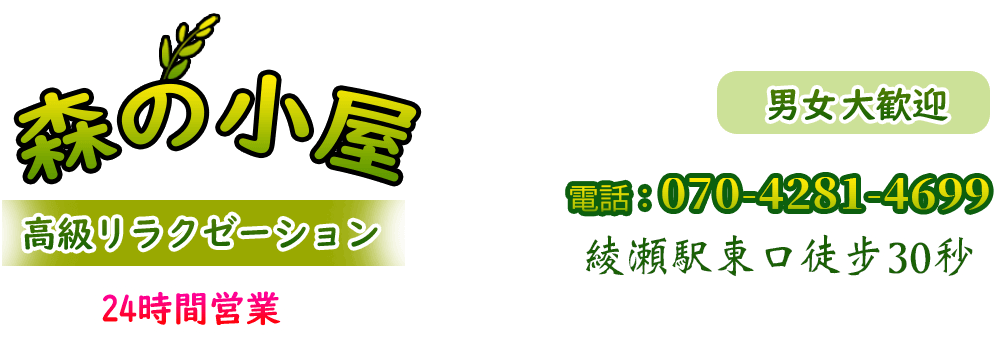
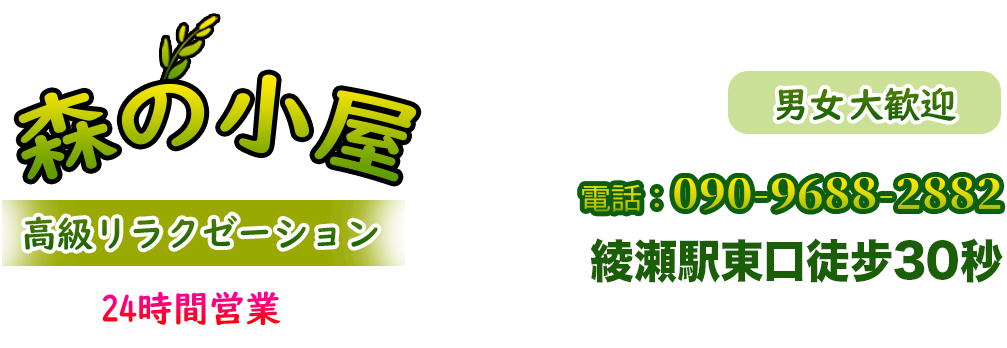
a'a
a'a

diff --git a/recruit.html b/recruit.html
@@ -1,2 +1,5 @@
-<!DOCTYPE html><html><head><meta charset="utf-8"/><title>森の小屋in綾瀬駅東口30秒リラクセーション　マッサージ　メンズエステ　リンパマッサージ【森の小屋】</title><meta name="keywords" content="森の小屋綾瀬駅東口30秒エステ,森の小屋アジア，アロママッサージ,精力回復,ストレス解消,アロマオイル,ボディケア,フットケア"/><meta name="description" content="綾瀬駅東口30秒本格アロママッサージ，森の小屋でございます，オイルマッサージで精力を増強します，仕事のストレスを解消いただきます。"/><meta name="viewport" content="width=device-width,user-scalable=yes"/><script src="https://cdn.staticfile.org/jquery/1.10.2/jquery.min.js"></script><link rel="stylesheet" href="swiper.min.css"/><link rel="stylesheet" href="css/nav_top.css"/></head><body class="body"><div class="top"><a class="tel" href="tel://07042814699"><div class="tels"></div></a></div><div class="navLage"><div class="navButton"><a href="index.html"><img src="img/images/nav_01.png"/></a></div><div class="navButton"><a href="system.html"><img src="img/images/nav_02.png"/></a></div><div class="navButton"><a href="girl.html"><img src="img/images/nav_03.png"/></a></div><div class="navButton"><a href="room.html"><img src="img/images/nav_07.png"/></a></div><div class="navButton"><a href="access.html"><img src="img/images/nav_05.png"/></a></div><div class="navButton"><a href="recruit.html"><img src="img/images/nav_06.png"/></a></div></div></body></html><link rel="stylesheet" href="css/4page.css"/><div class="Titles"><div class="recruittitle"></div></div><div class="recruit"><div><p>業&nbsp;種</p><p>リラクセーション</p></div><div style="height: 115px;"><p>給&nbsp;与</p><p style="height: 80px;">日払い OK!<br/>※高額保証制度有り<br/>ボーナス制度有り</p></div><div><p>時&nbsp;間&nbsp;</p><p>11:00～Last</p></div><div><p>資&nbsp;格&nbsp;</p><p>18歳～30歳位まで</p></div><div><p>勤務日&nbsp;</p><p>自&nbsp;由</p></div><div><p>応&nbsp;募&nbsp;</p><p>お電話の上、お気軽にご来店下さい。</p></div><div style="height: 136px;"><p>待&nbsp;遇&nbsp;</p><p style="height: 103px;">完全全額日払制、高額保証制度有り、個室待機制(TV・冷蔵庫・シャワー完備)、衛生管理万全、ノルマ・罰金一切なし、店内見学&amp;1日体験入店大歓迎</p></div><div><p>電&nbsp;話&nbsp;</p><p> <a href="tel://07042814699">tel：070ー4281ー4699</a></p></div></div><div class="telephonea"><a href="tel://07042814699"><div class="tele"></div></a></div><div class="endimg"><a href="http://www.a-side.com/" title="アジアンエステのエーサイド" target="_blank"><img src="http://www.a-side.com/banner/a-side_1m.gif" width="150" height="40" style="object-fit: contain;"  alt="アジアンエステのエーサイド"><br></a>
+<!DOCTYPE html><html><head><meta charset="utf-8"/><title>森の小屋in綾瀬駅東口30秒リラクセーション　マッサージ　メンズエステ　リンパマッサージ【森の小屋】</title><meta name="keywords" content="森の小屋綾瀬駅東口30秒エステ,森の小屋アジア，アロママッサージ,精力回復,ストレス解消,アロマオイル,ボディケア,フットケア"/><meta name="description" content="綾瀬駅東口30秒本格アロママッサージ，森の小屋でございます，オイルマッサージで精力を増強します，仕事のストレスを解消いただきます。"/><meta name="viewport" content="width=device-width,user-scalable=yes"/><script src="https://cdn.staticfile.org/jquery/1.10.2/jquery.min.js"></script><link rel="stylesheet" href="swiper.min.css"/><link rel="stylesheet" href="css/nav_top.css"/></head><body class="body"><div class="top">
+     <a class="tel" href="tel://09096882882"><div class="tels"></div></a></div><div class="navLage"><div class="navButton"><a href="index.html"><img src="img/images/nav_01.png"/></a></div><div class="navButton"><a href="system.html"><img src="img/images/nav_02.png"/></a></div><div class="navButton"><a href="girl.html"><img src="img/images/nav_03.png"/></a></div><div class="navButton"><a href="room.html"><img src="img/images/nav_07.png"/></a></div><div class="navButton"><a href="access.html"><img src="img/images/nav_05.png"/></a></div><div class="navButton"><a href="recruit.html"><img src="img/images/nav_06.png"/></a></div></div></body></html><link rel="stylesheet" href="css/4page.css"/><div class="Titles"><div class="recruittitle"></div></div><div class="recruit"><div><p>業&nbsp;種</p><p>リラクセーション</p></div><div style="height: 115px;"><p>給&nbsp;与</p><p style="height: 80px;">日払い OK!<br/>※高額保証制度有り<br/>ボーナス制度有り</p></div><div><p>時&nbsp;間&nbsp;</p><p>11:00～Last</p></div><div><p>資&nbsp;格&nbsp;</p><p>18歳～30歳位まで</p></div><div><p>勤務日&nbsp;</p><p>自&nbsp;由</p></div><div><p>応&nbsp;募&nbsp;</p><p>お電話の上、お気軽にご来店下さい。</p></div><div style="height: 136px;"><p>待&nbsp;遇&nbsp;</p><p style="height: 103px;">完全全額日払制、高額保証制度有り、個室待機制(TV・冷蔵庫・シャワー完備)、衛生管理万全、ノルマ・罰金一切なし、店内見学&amp;1日体験入店大歓迎</p></div><div><p>電&nbsp;話&nbsp;</p><p> 
+          <a href="tel://09096882882">tel：090-9688-2882</a></p></div></div><div class="telephonea">
+               <a href="tel://09096882882"><div class="tele"></div></a></div><div class="endimg"><a href="http://www.a-side.com/" title="アジアンエステのエーサイド" target="_blank"><img src="http://www.a-side.com/banner/a-side_1m.gif" width="150" height="40" style="object-fit: contain;"  alt="アジアンエステのエーサイド"><br></a>
 <a href="https://www.es-navi.com/" target="_blank"><img src="https://img.es-navi.com/banners/es-navi_150x40.gif" width="150" height="40" style="object-fit: contain;" alt="エステナビ～全国のエステ検索の決定版！"><br></a></div><h1>森の小屋in綾瀬駅東口30秒</h1><script src="swiper.min.js"></script><script src="js/index.js"></script><script>divHeight(2.0,"focus");</script>

diff --git a/access.html b/access.html
@@ -1,3 +1,3 @@
-<!DOCTYPE html><html><head><meta charset="utf-8"/><title>森の小屋in綾瀬駅東口30秒リラクセーション　マッサージ　メンズエステ　リンパマッサージ【森の小屋】</title><meta name="keywords" content="森の小屋綾瀬駅東口30秒エステ,森の小屋アジア，アロママッサージ,精力回復,ストレス解消,アロマオイル,ボディケア,フットケア"/><meta name="description" content="綾瀬駅東口30秒本格アロママッサージ，森の小屋でございます，オイルマッサージで精力を増強します，仕事のストレスを解消いただきます。"/><meta name="viewport" content="width=device-width,user-scalable=yes"/><script src="https://cdn.staticfile.org/jquery/1.10.2/jquery.min.js"></script><link rel="stylesheet" href="swiper.min.css"/><link rel="stylesheet" href="css/nav_top.css"/></head><body class="body"><div class="top"><a class="tel" href="tel://07042814699"><div class="tels"></div></a></div><div class="navLage"><div class="navButton"><a href="index.html"><img src="img/images/nav_01.png"/></a></div><div class="navButton"><a href="system.html"><img src="img/images/nav_02.png"/></a></div><div class="navButton"><a href="girl.html"><img src="img/images/nav_03.png"/></a></div><div class="navButton"><a href="room.html"><img src="img/images/nav_07.png"/></a></div><div class="navButton"><a href="access.html"><img src="img/images/nav_05.png"/></a></div><div class="navButton"><a href="recruit.html"><img src="img/images/nav_06.png"/></a></div></div></body></html><link rel="stylesheet" href="css/4page.css"/><div class="Titles"><div class="accesstitle"></div></div><div class="access"><iframe src="https://www.google.com/maps/embed?pb=!1m18!1m12!1m3!1d3237.5662031985717!2d139.82432901513218!3d35.761465633175085!2m3!1f0!2f0!3f0!3m2!1i1024!2i768!4f13.1!3m3!1m2!1s0x60188fb99d93e459%3A0x48030381bbdf1557!2z44CSMTIwLTAwMDUgVMWNa3nFjS10bywgQWRhY2hpIENpdHksIEF5YXNlLCAyLWNoxY1tZeKIkjI04oiSNSDmvqTnlLDjg5Pjg6s!5e0!3m2!1szh-CN!2sjp!4v1581159376765!5m2!1szh-CN!2sjp" width="600" height="750" frameborder="0" style="border:0;" allowfullscreen=""></iframe>
-     <div class="address">綾瀬駅東口30秒</div><div class="address">足立区綾瀬2-24-5 澤田ビル203</div><div class="address">綾瀬駅東⼝から右に曲がって、歩いて30秒くらい</div><div class="address">２階にある店の緑の看板を見えます</div><div class="teleph"><a href="tel://07042814699">tel：070-4281-4699</a></div></div><div class="telephonea"><a href="tel://07042814699"><div class="tele"></div></a></div><div class="endimg"><a href="http://www.a-side.com/" title="アジアンエステのエーサイド" target="_blank"><img src="http://www.a-side.com/banner/a-side_1m.gif" width="150" height="40" style="object-fit: contain;"  alt="アジアンエステのエーサイド"><br></a>
+<!DOCTYPE html><html><head><meta charset="utf-8"/><title>森の小屋in綾瀬駅東口30秒リラクセーション　マッサージ　メンズエステ　リンパマッサージ【森の小屋】</title><meta name="keywords" content="森の小屋綾瀬駅東口30秒エステ,森の小屋アジア，アロママッサージ,精力回復,ストレス解消,アロマオイル,ボディケア,フットケア"/><meta name="description" content="綾瀬駅東口30秒本格アロママッサージ，森の小屋でございます，オイルマッサージで精力を増強します，仕事のストレスを解消いただきます。"/><meta name="viewport" content="width=device-width,user-scalable=yes"/><script src="https://cdn.staticfile.org/jquery/1.10.2/jquery.min.js"></script><link rel="stylesheet" href="swiper.min.css"/><link rel="stylesheet" href="css/nav_top.css"/></head><body class="body"><div class="top"><a class="tel" href="tel://09096882882"><div class="tels"></div></a></div><div class="navLage"><div class="navButton"><a href="index.html"><img src="img/images/nav_01.png"/></a></div><div class="navButton"><a href="system.html"><img src="img/images/nav_02.png"/></a></div><div class="navButton"><a href="girl.html"><img src="img/images/nav_03.png"/></a></div><div class="navButton"><a href="room.html"><img src="img/images/nav_07.png"/></a></div><div class="navButton"><a href="access.html"><img src="img/images/nav_05.png"/></a></div><div class="navButton"><a href="recruit.html"><img src="img/images/nav_06.png"/></a></div></div></body></html><link rel="stylesheet" href="css/4page.css"/><div class="Titles"><div class="accesstitle"></div></div><div class="access"><iframe src="https://www.google.com/maps/embed?pb=!1m18!1m12!1m3!1d3237.5662031985717!2d139.82432901513218!3d35.761465633175085!2m3!1f0!2f0!3f0!3m2!1i1024!2i768!4f13.1!3m3!1m2!1s0x60188fb99d93e459%3A0x48030381bbdf1557!2z44CSMTIwLTAwMDUgVMWNa3nFjS10bywgQWRhY2hpIENpdHksIEF5YXNlLCAyLWNoxY1tZeKIkjI04oiSNSDmvqTnlLDjg5Pjg6s!5e0!3m2!1szh-CN!2sjp!4v1581159376765!5m2!1szh-CN!2sjp" width="600" height="750" frameborder="0" style="border:0;" allowfullscreen=""></iframe>
+     <div class="address">綾瀬駅東口30秒</div><div class="address">足立区綾瀬2-24-5 澤田ビル203</div><div class="address">綾瀬駅東⼝から右に曲がって、歩いて30秒くらい</div><div class="address">２階にある店の緑の看板を見えます</div><div class="teleph"><a href="tel://09096882882">tel：090-9688-2882</a></div></div><div class="telephonea"><a href="tel://09096882882"><div class="tele"></div></a></div><div class="endimg"><a href="http://www.a-side.com/" title="アジアンエステのエーサイド" target="_blank"><img src="http://www.a-side.com/banner/a-side_1m.gif" width="150" height="40" style="object-fit: contain;"  alt="アジアンエステのエーサイド"><br></a>
 <a href="https://www.es-navi.com/" target="_blank"><img src="https://img.es-navi.com/banners/es-navi_150x40.gif" width="150" height="40" style="object-fit: contain;" alt="エステナビ～全国のエステ検索の決定版！"><br></a></div><h1>森の小屋in綾瀬駅東口30秒</h1><script src="swiper.min.js"></script><script src="js/index.js"></script>

diff --git a/index.html b/index.html
@@ -1,2 +1,4 @@
-<!DOCTYPE html><html><head><meta charset="utf-8"/><title>森の小屋in綾瀬駅東口30秒リラクセーション　マッサージ　メンズエステ　リンパマッサージ【森の小屋】</title><meta name="keywords" content="森の小屋綾瀬駅東口30秒エステ,森の小屋アジア，アロママッサージ,精力回復,ストレス解消,アロマオイル,ボディケア,フットケア"/><meta name="description" content="綾瀬駅東口30秒本格アロママッサージ，森の小屋でございます，オイルマッサージで精力を増強します，仕事のストレスを解消いただきます。"/><meta name="viewport" content="width=device-width,user-scalable=yes"/><script src="https://cdn.staticfile.org/jquery/1.10.2/jquery.min.js"></script><link rel="stylesheet" href="swiper.min.css"/><link rel="stylesheet" href="css/nav_top.css"/></head><body class="body"><div class="top"><a class="tel" href="tel://07042814699"><div class="tels"></div></a></div><div class="navLage"><div class="navButton"><a href="index.html"><img src="img/images/nav_01.png"/></a></div><div class="navButton"><a href="system.html"><img src="img/images/nav_02.png"/></a></div><div class="navButton"><a href="girl.html"><img src="img/images/nav_03.png"/></a></div><div class="navButton"><a href="room.html"><img src="img/images/nav_07.png"/></a></div><div class="navButton"><a href="access.html"><img src="img/images/nav_05.png"/></a></div><div class="navButton"><a href="recruit.html"><img src="img/images/nav_06.png"/></a></div></div></body></html><div class="asd"></div><div class="wrap"><ul id="pcGirlAll"></ul></div><link rel="stylesheet" href="css/index.css"/><div class="event" id="event"></div><div class="newsTitle"></div><div class="aaa"><div class="girlPhoto"><div class="swiper-container" id="Swiper0"><div class="swiper-wrapper" id="PcGirlPhoto"></div></div></div><div class="newsAndMolir"><div class="news"><div class="newsText"><div class="text" id="catchMynews1"></div></div></div></div></div><div class="indexlink1"></div><div class="telephonea"><a href="tel://07042814699"><div class="tele"></div></a></div><div class="endimg"><a href="http://www.a-side.com/" title="アジアンエステのエーサイド" target="_blank"><img src="http://www.a-side.com/banner/a-side_1m.gif" width="150" height="40" style="object-fit: contain;"  alt="アジアンエステのエーサイド"><br></a>
+<!DOCTYPE html><html><head><meta charset="utf-8"/><title>森の小屋in綾瀬駅東口30秒リラクセーション　マッサージ　メンズエステ　リンパマッサージ【森の小屋】</title><meta name="keywords" content="森の小屋綾瀬駅東口30秒エステ,森の小屋アジア，アロママッサージ,精力回復,ストレス解消,アロマオイル,ボディケア,フットケア"/><meta name="description" content="綾瀬駅東口30秒本格アロママッサージ，森の小屋でございます，オイルマッサージで精力を増強します，仕事のストレスを解消いただきます。"/><meta name="viewport" content="width=device-width,user-scalable=yes"/><script src="https://cdn.staticfile.org/jquery/1.10.2/jquery.min.js"></script><link rel="stylesheet" href="swiper.min.css"/><link rel="stylesheet" href="css/nav_top.css"/></head><body class="body"><div class="top">
+     <a class="tel" href="tel://09096882882"><div class="tels"></div></a></div><div class="navLage"><div class="navButton"><a href="index.html"><img src="img/images/nav_01.png"/></a></div><div class="navButton"><a href="system.html"><img src="img/images/nav_02.png"/></a></div><div class="navButton"><a href="girl.html"><img src="img/images/nav_03.png"/></a></div><div class="navButton"><a href="room.html"><img src="img/images/nav_07.png"/></a></div><div class="navButton"><a href="access.html"><img src="img/images/nav_05.png"/></a></div><div class="navButton"><a href="recruit.html"><img src="img/images/nav_06.png"/></a></div></div></body></html><div class="asd"></div><div class="wrap"><ul id="pcGirlAll"></ul></div><link rel="stylesheet" href="css/index.css"/><div class="event" id="event"></div><div class="newsTitle"></div><div class="aaa"><div class="girlPhoto"><div class="swiper-container" id="Swiper0"><div class="swiper-wrapper" id="PcGirlPhoto"></div></div></div><div class="newsAndMolir"><div class="news"><div class="newsText"><div class="text" id="catchMynews1"></div></div></div></div></div><div class="indexlink1"></div><div class="telephonea">
+     <a href="tel://09096882882"><div class="tele"></div></a></div><div class="endimg"><a href="http://www.a-side.com/" title="アジアンエステのエーサイド" target="_blank"><img src="http://www.a-side.com/banner/a-side_1m.gif" width="150" height="40" style="object-fit: contain;"  alt="アジアンエステのエーサイド"><br></a>
 <a href="https://www.es-navi.com/" target="_blank"><img src="https://img.es-navi.com/banners/es-navi_150x40.gif" width="150" height="40" style="object-fit: contain;" alt="エステナビ～全国のエステ検索の決定版！"><br></a></div><h1>森の小屋in綾瀬駅東口30秒</h1><script src="swiper.min.js"></script><script src="js/index.js"></script><script src="js/girl.js"></script>

diff --git a/girl.html b/girl.html
@@ -1,4 +1,6 @@
-<!DOCTYPE html><html><head><meta charset="utf-8"/><title>森の小屋in綾瀬駅東口30秒リラクセーション　マッサージ　メンズエステ　リンパマッサージ【森の小屋】</title><meta name="keywords" content="森の小屋綾瀬駅東口30秒エステ,森の小屋アジア，アロママッサージ,精力回復,ストレス解消,アロマオイル,ボディケア,フットケア"/><meta name="description" content="綾瀬駅東口30秒本格アロママッサージ，森の小屋でございます，オイルマッサージで精力を増強します，仕事のストレスを解消いただきます。"/><meta name="viewport" content="width=device-width,user-scalable=yes"/><script src="https://cdn.staticfile.org/jquery/1.10.2/jquery.min.js"></script><link rel="stylesheet" href="swiper.min.css"/><link rel="stylesheet" href="css/nav_top.css"/></head><body class="body"><div class="top"><a class="tel" href="tel://07042814699"><div class="tels"></div></a></div><div class="navLage"><div class="navButton"><a href="index.html"><img src="img/images/nav_01.png"/></a></div><div class="navButton"><a href="system.html"><img src="img/images/nav_02.png"/></a></div><div class="navButton"><a href="girl.html"><img src="img/images/nav_03.png"/></a></div><div class="navButton"><a href="room.html"><img src="img/images/nav_07.png"/></a></div><div class="navButton"><a href="access.html"><img src="img/images/nav_05.png"/></a></div><div class="navButton"><a href="recruit.html"><img src="img/images/nav_06.png"/></a></div></div></body></html><link rel="stylesheet" href="css/staff.css"/><div class="Titles"><div class="stafftitle"></div></div><div id="getMyStaff"></div><div class="telephonea"><a href="tel://07042814699"><div class="tele"></div></a></div><div class="endimg"><a href="http://www.a-side.com/" title="アジアンエステのエーサイド" target="_blank"><img src="http://www.a-side.com/banner/a-side_1m.gif" width="150" height="40" style="object-fit: contain;"  alt="アジアンエステのエーサイド"><br></a>
+<!DOCTYPE html><html><head><meta charset="utf-8"/><title>森の小屋in綾瀬駅東口30秒リラクセーション　マッサージ　メンズエステ　リンパマッサージ【森の小屋】</title><meta name="keywords" content="森の小屋綾瀬駅東口30秒エステ,森の小屋アジア，アロママッサージ,精力回復,ストレス解消,アロマオイル,ボディケア,フットケア"/><meta name="description" content="綾瀬駅東口30秒本格アロママッサージ，森の小屋でございます，オイルマッサージで精力を増強します，仕事のストレスを解消いただきます。"/><meta name="viewport" content="width=device-width,user-scalable=yes"/><script src="https://cdn.staticfile.org/jquery/1.10.2/jquery.min.js"></script><link rel="stylesheet" href="swiper.min.css"/><link rel="stylesheet" href="css/nav_top.css"/></head><body class="body"><div class="top">
+  <a class="tel" href="tel://09096882882"><div class="tels"></div></a></div><div class="navLage"><div class="navButton"><a href="index.html"><img src="img/images/nav_01.png"/></a></div><div class="navButton"><a href="system.html"><img src="img/images/nav_02.png"/></a></div><div class="navButton"><a href="girl.html"><img src="img/images/nav_03.png"/></a></div><div class="navButton"><a href="room.html"><img src="img/images/nav_07.png"/></a></div><div class="navButton"><a href="access.html"><img src="img/images/nav_05.png"/></a></div><div class="navButton"><a href="recruit.html"><img src="img/images/nav_06.png"/></a></div></div></body></html><link rel="stylesheet" href="css/staff.css"/><div class="Titles"><div class="stafftitle"></div></div><div id="getMyStaff"></div><div class="telephonea">
+    <a href="tel://09096882882"><div class="tele"></div></a></div><div class="endimg"><a href="http://www.a-side.com/" title="アジアンエステのエーサイド" target="_blank"><img src="http://www.a-side.com/banner/a-side_1m.gif" width="150" height="40" style="object-fit: contain;"  alt="アジアンエステのエーサイド"><br></a>
 <a href="https://www.es-navi.com/" target="_blank"><img src="https://img.es-navi.com/banners/es-navi_150x40.gif" width="150" height="40" style="object-fit: contain;" alt="エステナビ～全国のエステ検索の決定版！"><br></a></div><h1>森の小屋in綾瀬駅東口30秒</h1><script src="swiper.min.js"></script><script src="js/index.js"></script><script>var myApi ="https://test-cms-alpha.herokuapp.com/sites/4/profiles.json"
  var myList = document.getElementById('getMyStaff');
 function loadMyStaff(){

diff --git a/room.html b/room.html
@@ -1,2 +1,4 @@
-<!DOCTYPE html><html><head><meta charset="utf-8"/><title>森の小屋in綾瀬駅東口30秒リラクセーション　マッサージ　メンズエステ　リンパマッサージ【森の小屋】</title><meta name="keywords" content="森の小屋綾瀬駅東口30秒エステ,森の小屋アジア，アロママッサージ,精力回復,ストレス解消,アロマオイル,ボディケア,フットケア"/><meta name="description" content="綾瀬駅東口30秒本格アロママッサージ，森の小屋でございます，オイルマッサージで精力を増強します，仕事のストレスを解消いただきます。"/><meta name="viewport" content="width=device-width,user-scalable=yes"/><script src="https://cdn.staticfile.org/jquery/1.10.2/jquery.min.js"></script><link rel="stylesheet" href="swiper.min.css"/><link rel="stylesheet" href="css/nav_top.css"/></head><body class="body"><div class="top"><a class="tel" href="tel://07042814699"><div class="tels"></div></a></div><div class="navLage"><div class="navButton"><a href="index.html"><img src="img/images/nav_01.png"/></a></div><div class="navButton"><a href="system.html"><img src="img/images/nav_02.png"/></a></div><div class="navButton"><a href="girl.html"><img src="img/images/nav_03.png"/></a></div><div class="navButton"><a href="room.html"><img src="img/images/nav_07.png"/></a></div><div class="navButton"><a href="access.html"><img src="img/images/nav_05.png"/></a></div><div class="navButton"><a href="recruit.html"><img src="img/images/nav_06.png"/></a></div></div></body></html><link rel="stylesheet" href="css/4page.css"/><div class="Titles"><div class="roomtitle"></div></div><div class="room"></div><div class="telephonea"><a href="tel://07042814699"><div class="tele"></div></a></div><div class="endimg"><a href="http://www.a-side.com/" title="アジアンエステのエーサイド" target="_blank"><img src="http://www.a-side.com/banner/a-side_1m.gif" width="150" height="40" style="object-fit: contain;"  alt="アジアンエステのエーサイド"><br></a>
+<!DOCTYPE html><html><head><meta charset="utf-8"/><title>森の小屋in綾瀬駅東口30秒リラクセーション　マッサージ　メンズエステ　リンパマッサージ【森の小屋】</title><meta name="keywords" content="森の小屋綾瀬駅東口30秒エステ,森の小屋アジア，アロママッサージ,精力回復,ストレス解消,アロマオイル,ボディケア,フットケア"/><meta name="description" content="綾瀬駅東口30秒本格アロママッサージ，森の小屋でございます，オイルマッサージで精力を増強します，仕事のストレスを解消いただきます。"/><meta name="viewport" content="width=device-width,user-scalable=yes"/><script src="https://cdn.staticfile.org/jquery/1.10.2/jquery.min.js"></script><link rel="stylesheet" href="swiper.min.css"/><link rel="stylesheet" href="css/nav_top.css"/></head><body class="body"><div class="top">
+     <a class="tel" href="tel://09096882882"><div class="tels"></div></a></div><div class="navLage"><div class="navButton"><a href="index.html"><img src="img/images/nav_01.png"/></a></div><div class="navButton"><a href="system.html"><img src="img/images/nav_02.png"/></a></div><div class="navButton"><a href="girl.html"><img src="img/images/nav_03.png"/></a></div><div class="navButton"><a href="room.html"><img src="img/images/nav_07.png"/></a></div><div class="navButton"><a href="access.html"><img src="img/images/nav_05.png"/></a></div><div class="navButton"><a href="recruit.html"><img src="img/images/nav_06.png"/></a></div></div></body></html><link rel="stylesheet" href="css/4page.css"/><div class="Titles"><div class="roomtitle"></div></div><div class="room"></div><div class="telephonea">
+          <a href="tel://09096882882"><div class="tele"></div></a></div><div class="endimg"><a href="http://www.a-side.com/" title="アジアンエステのエーサイド" target="_blank"><img src="http://www.a-side.com/banner/a-side_1m.gif" width="150" height="40" style="object-fit: contain;"  alt="アジアンエステのエーサイド"><br></a>
 <a href="https://www.es-navi.com/" target="_blank"><img src="https://img.es-navi.com/banners/es-navi_150x40.gif" width="150" height="40" style="object-fit: contain;" alt="エステナビ～全国のエステ検索の決定版！"><br></a></div><h1>森の小屋in綾瀬駅東口30秒</h1><script src="swiper.min.js"></script><script src="js/index.js"></script>

diff --git a/system.html b/system.html
@@ -1,3 +1,5 @@
-<!DOCTYPE html><html><head><meta charset="utf-8"/><title>森の小屋in綾瀬駅東口30秒リラクセーション　マッサージ　メンズエステ　リンパマッサージ【森の小屋】</title><meta name="keywords" content="森の小屋綾瀬駅東口30秒エステ,森の小屋アジア，アロママッサージ,精力回復,ストレス解消,アロマオイル,ボディケア,フットケア"/><meta name="description" content="綾瀬駅東口30秒本格アロママッサージ，森の小屋でございます，オイルマッサージで精力を増強します，仕事のストレスを解消いただきます。"/><meta name="viewport" content="width=device-width,user-scalable=yes"/><script src="https://cdn.staticfile.org/jquery/1.10.2/jquery.min.js"></script><link rel="stylesheet" href="swiper.min.css"/><link rel="stylesheet" href="css/nav_top.css"/></head><body class="body"><div class="top"><a class="tel" href="tel://07042814699"><div class="tels"></div></a></div><div class="navLage"><div class="navButton"><a href="index.html"><img src="img/images/nav_01.png"/></a></div><div class="navButton"><a href="system.html"><img src="img/images/nav_02.png"/></a></div><div class="navButton"><a href="girl.html"><img src="img/images/nav_03.png"/></a></div><div class="navButton"><a href="room.html"><img src="img/images/nav_07.png"/></a></div><div class="navButton"><a href="access.html"><img src="img/images/nav_05.png"/></a></div><div class="navButton"><a href="recruit.html"><img src="img/images/nav_06.png"/></a></div></div></body></html><link rel="stylesheet" href="css/4page.css"/><div class="system" id="system"></div><div class="telephonea"><a href="tel://07042814699"><div class="tele"></div></a></div><div class="endimg"><a href="http://www.a-side.com/" title="アジアンエステのエーサイド" target="_blank"><img src="http://www.a-side.com/banner/a-side_1m.gif" width="150" height="40" style="object-fit: contain;"  alt="アジアンエステのエーサイド"><br></a>
+<!DOCTYPE html><html><head><meta charset="utf-8"/><title>森の小屋in綾瀬駅東口30秒リラクセーション　マッサージ　メンズエステ　リンパマッサージ【森の小屋】</title><meta name="keywords" content="森の小屋綾瀬駅東口30秒エステ,森の小屋アジア，アロママッサージ,精力回復,ストレス解消,アロマオイル,ボディケア,フットケア"/><meta name="description" content="綾瀬駅東口30秒本格アロママッサージ，森の小屋でございます，オイルマッサージで精力を増強します，仕事のストレスを解消いただきます。"/><meta name="viewport" content="width=device-width,user-scalable=yes"/><script src="https://cdn.staticfile.org/jquery/1.10.2/jquery.min.js"></script><link rel="stylesheet" href="swiper.min.css"/><link rel="stylesheet" href="css/nav_top.css"/></head><body class="body"><div class="top">
+     <a class="tel" href="tel://09096882882"><div class="tels"></div></a></div><div class="navLage"><div class="navButton"><a href="index.html"><img src="img/images/nav_01.png"/></a></div><div class="navButton"><a href="system.html"><img src="img/images/nav_02.png"/></a></div><div class="navButton"><a href="girl.html"><img src="img/images/nav_03.png"/></a></div><div class="navButton"><a href="room.html"><img src="img/images/nav_07.png"/></a></div><div class="navButton"><a href="access.html"><img src="img/images/nav_05.png"/></a></div><div class="navButton"><a href="recruit.html"><img src="img/images/nav_06.png"/></a></div></div></body></html><link rel="stylesheet" href="css/4page.css"/><div class="system" id="system"></div><div class="telephonea">
+     <a href="tel://09096882882"><div class="tele"></div></a></div><div class="endimg"><a href="http://www.a-side.com/" title="アジアンエステのエーサイド" target="_blank"><img src="http://www.a-side.com/banner/a-side_1m.gif" width="150" height="40" style="object-fit: contain;"  alt="アジアンエステのエーサイド"><br></a>
 <a href="https://www.es-navi.com/" target="_blank"><img src="https://img.es-navi.com/banners/es-navi_150x40.gif" width="150" height="40" style="object-fit: contain;" alt="エステナビ～全国のエステ検索の決定版！"><br></a></div><h1>森の小屋in綾瀬駅東口30秒</h1><script src="swiper.min.js"></script><script src="js/index.js"></script><script>divHeight(0.38,"system");
 divHeight(2.0,"focus");</script>

diff --git a/girl_big.html b/girl_big.html
@@ -1,4 +1,5 @@
-<!DOCTYPE html><html><head><meta charset="utf-8"/><title>森の小屋in綾瀬駅東口30秒リラクセーション　マッサージ　メンズエステ　リンパマッサージ【森の小屋】</title><meta name="keywords" content="森の小屋綾瀬駅東口30秒エステ,森の小屋アジア，アロママッサージ,精力回復,ストレス解消,アロマオイル,ボディケア,フットケア"/><meta name="description" content="綾瀬駅東口30秒本格アロママッサージ，森の小屋でございます，オイルマッサージで精力を増強します，仕事のストレスを解消いただきます。"/><meta name="viewport" content="width=device-width,user-scalable=yes"/><script src="https://cdn.staticfile.org/jquery/1.10.2/jquery.min.js"></script><link rel="stylesheet" href="swiper.min.css"/><link rel="stylesheet" href="css/nav_top.css"/></head><body class="body"><div class="top"><a class="tel" href="tel://07042814699"><div class="tels"></div></a></div><div class="navLage"><div class="navButton"><a href="index.html"><img src="img/images/nav_01.png"/></a></div><div class="navButton"><a href="system.html"><img src="img/images/nav_02.png"/></a></div><div class="navButton"><a href="girl.html"><img src="img/images/nav_03.png"/></a></div><div class="navButton"><a href="room.html"><img src="img/images/nav_07.png"/></a></div><div class="navButton"><a href="access.html"><img src="img/images/nav_05.png"/></a></div><div class="navButton"><a href="recruit.html"><img src="img/images/nav_06.png"/></a></div></div></body></html><script>var d =window.location.search.split("")
+<!DOCTYPE html><html><head><meta charset="utf-8"/><title>森の小屋in綾瀬駅東口30秒リラクセーション　マッサージ　メンズエステ　リンパマッサージ【森の小屋】</title><meta name="keywords" content="森の小屋綾瀬駅東口30秒エステ,森の小屋アジア，アロママッサージ,精力回復,ストレス解消,アロマオイル,ボディケア,フットケア"/><meta name="description" content="綾瀬駅東口30秒本格アロママッサージ，森の小屋でございます，オイルマッサージで精力を増強します，仕事のストレスを解消いただきます。"/><meta name="viewport" content="width=device-width,user-scalable=yes"/><script src="https://cdn.staticfile.org/jquery/1.10.2/jquery.min.js"></script><link rel="stylesheet" href="swiper.min.css"/><link rel="stylesheet" href="css/nav_top.css"/></head><body class="body"><div class="top">
+  <a class="tel" href="tel://09096882882"><div class="tels"></div></a></div><div class="navLage"><div class="navButton"><a href="index.html"><img src="img/images/nav_01.png"/></a></div><div class="navButton"><a href="system.html"><img src="img/images/nav_02.png"/></a></div><div class="navButton"><a href="girl.html"><img src="img/images/nav_03.png"/></a></div><div class="navButton"><a href="room.html"><img src="img/images/nav_07.png"/></a></div><div class="navButton"><a href="access.html"><img src="img/images/nav_05.png"/></a></div><div class="navButton"><a href="recruit.html"><img src="img/images/nav_06.png"/></a></div></div></body></html><script>var d =window.location.search.split("")
 console.log(d);</script><link rel="stylesheet" href="css/staff1.css"/><div class="staff" id="aaa"><div class="swiper-scrollbar"></div></div><script>var apiList = document.getElementById('aaa');
 var myApi ="https://test-cms-alpha.herokuapp.com/sites/4/profiles.json";
 fetch(myApi)
